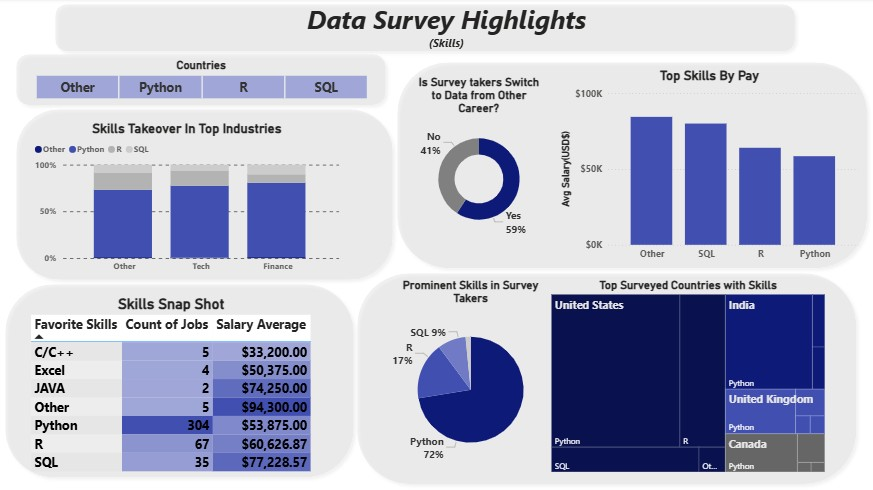
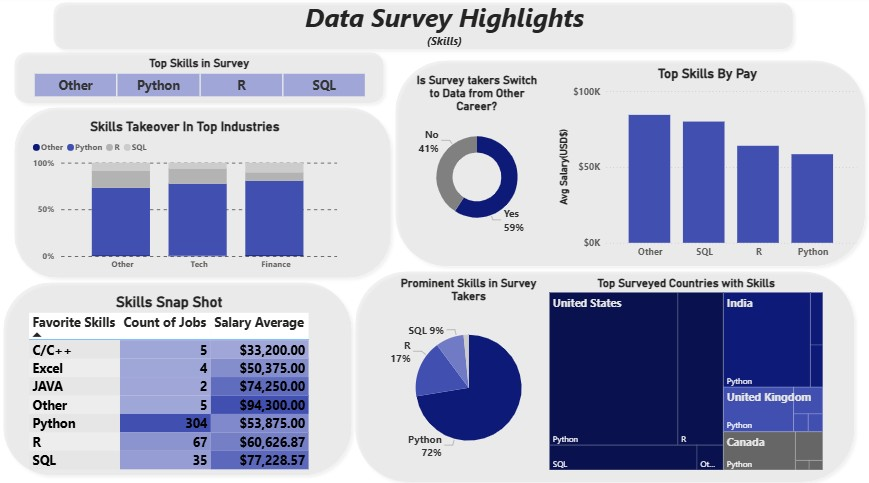
Update dashboard images

diff --git a/README.md b/README.md
@@ -44,7 +44,7 @@ This dashboard brings together **job roles, salaries, skills, and satisfaction m
 * 😊 **Salary satisfaction score ~4.27/10** → shows room for improvement in compensation perception
 
 <p align="left">
-  <img src="images\titles_dashboard_image.jpg" alt="images\titles_dashboard_image.jpg" width="700"/>
+  <img src="images\titles_dashboard_image.jpg" alt="images\titles_dashboard_image.jpg" width="800"/>
 </p>
 
 #### 🏢 **Industry Trends**
@@ -59,7 +59,7 @@ This dashboard brings together **job roles, salaries, skills, and satisfaction m
 * 📊 **SQL offers strong salary returns**, competing closely with “Other” specialized tools  
 
 <p align="left">
-  <img src="images\skills_dashboard_image.jpg" alt="images\skills_dashboard_image.jpg" width="700"/>
+  <img src="" alt="" width="800"/>
 </p>
 
 #### 🔄 **Career Switching Trend**